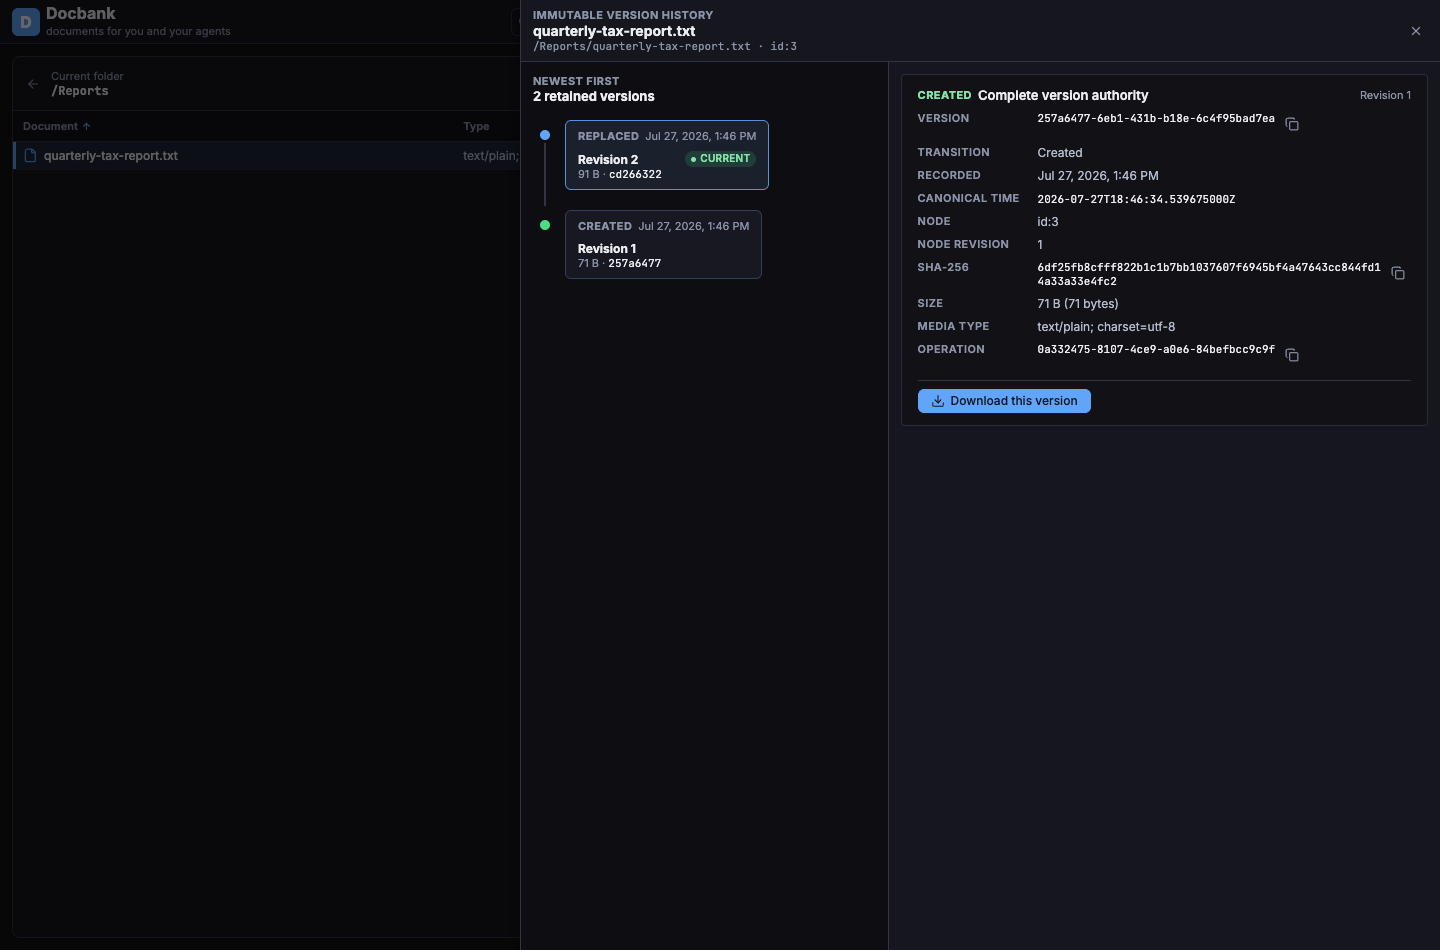
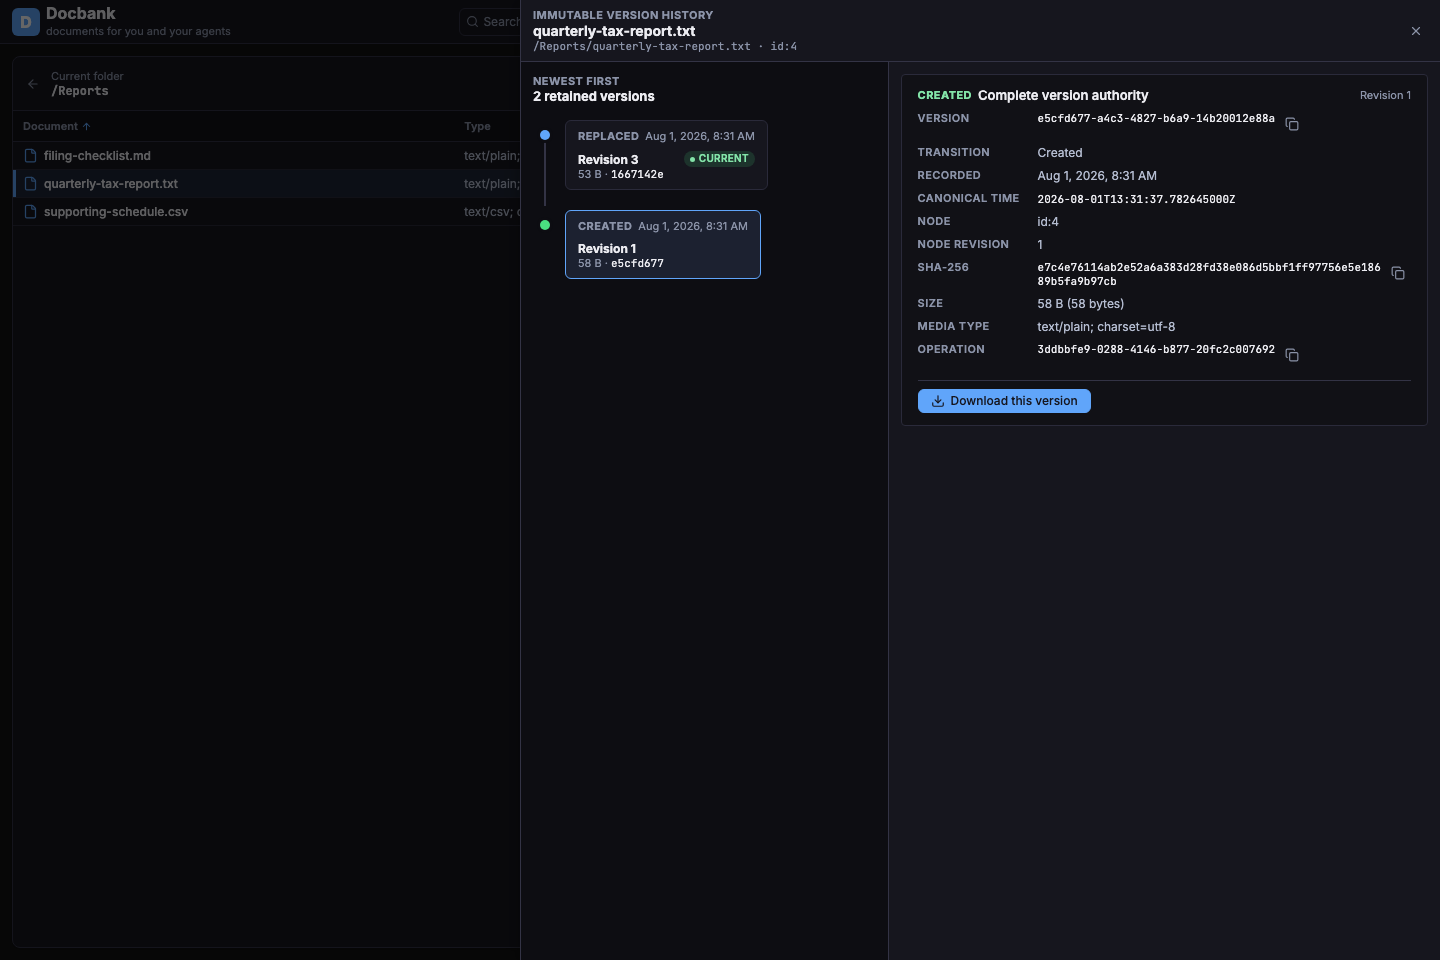
Correct reviewed screenshot states
Historical screenshot URLs should continue to show internally consistent current UI rather than preserving a stale selection or grammar defect. Replace both captures from the real v0.12 daemon harness and correct the recorded terminal dimensions.

Generated with Codex

diff --git a/README.md b/README.md
@@ -34,7 +34,7 @@ document names, paths, contents, hashes, and identifiers are synthetic.
 The screenshots in `screenshots/multi-store-storage/` were captured on
 2026-08-01 from Docbank v0.12.0 (`f1475f1`) using the repository-owned real
 daemon harness and a temporary synthetic vault. The web capture is 1440 × 960
-in dark mode; the TUI capture is 1280 × 800. The vault, document names,
+in dark mode; the TUI capture is 1280 × 792. The vault, document names,
 paths, contents, hashes, identifiers, store names, and placement history are
 synthetic.
 
@@ -76,14 +76,14 @@ synthetic report carrying the selected stable tag. The vault, document names,
 paths, contents, hashes, tags, and identifiers are synthetic.
 
 `screenshots/web-retained-version-download/web-retained-version-download.png`
-was captured on 2026-07-27 from Docbank commit `1dd146c` at 1440 × 950 in dark
-mode. It shows the actual daemon-served web application with an older retained
-version selected and ready for verified download. The vault, document name,
-path, contents, hashes, and identifiers are synthetic.
+was recaptured on 2026-08-01 from the v0.12.0 interface at 1440 × 960 in dark
+mode. It shows the actual daemon-served web application with Revision 1 visibly
+selected and ready for verified download. The vault, document name, path,
+contents, hashes, and identifiers are synthetic.
 
 `screenshots/web-storage-status/web-storage-status.png` was captured on
-2026-07-27 from Docbank commit `1f090fe` at 1440 × 950 in dark mode. It shows
-the actual daemon-served web application reporting physical loose files, live
-packed content, and logically dead packed payload awaiting repack. The vault,
-document names, paths, contents, hashes, identifiers, and storage history are
-synthetic.
+2026-08-01 from the v0.12.0 interface at 1440 × 960 in dark mode. It shows the
+actual daemon-served web application reporting one primary pack and the same
+content's secondary-store authority, with singular pack copy rendered
+correctly. The vault, document names, paths, contents, hashes, identifiers, and
+storage history are synthetic.
